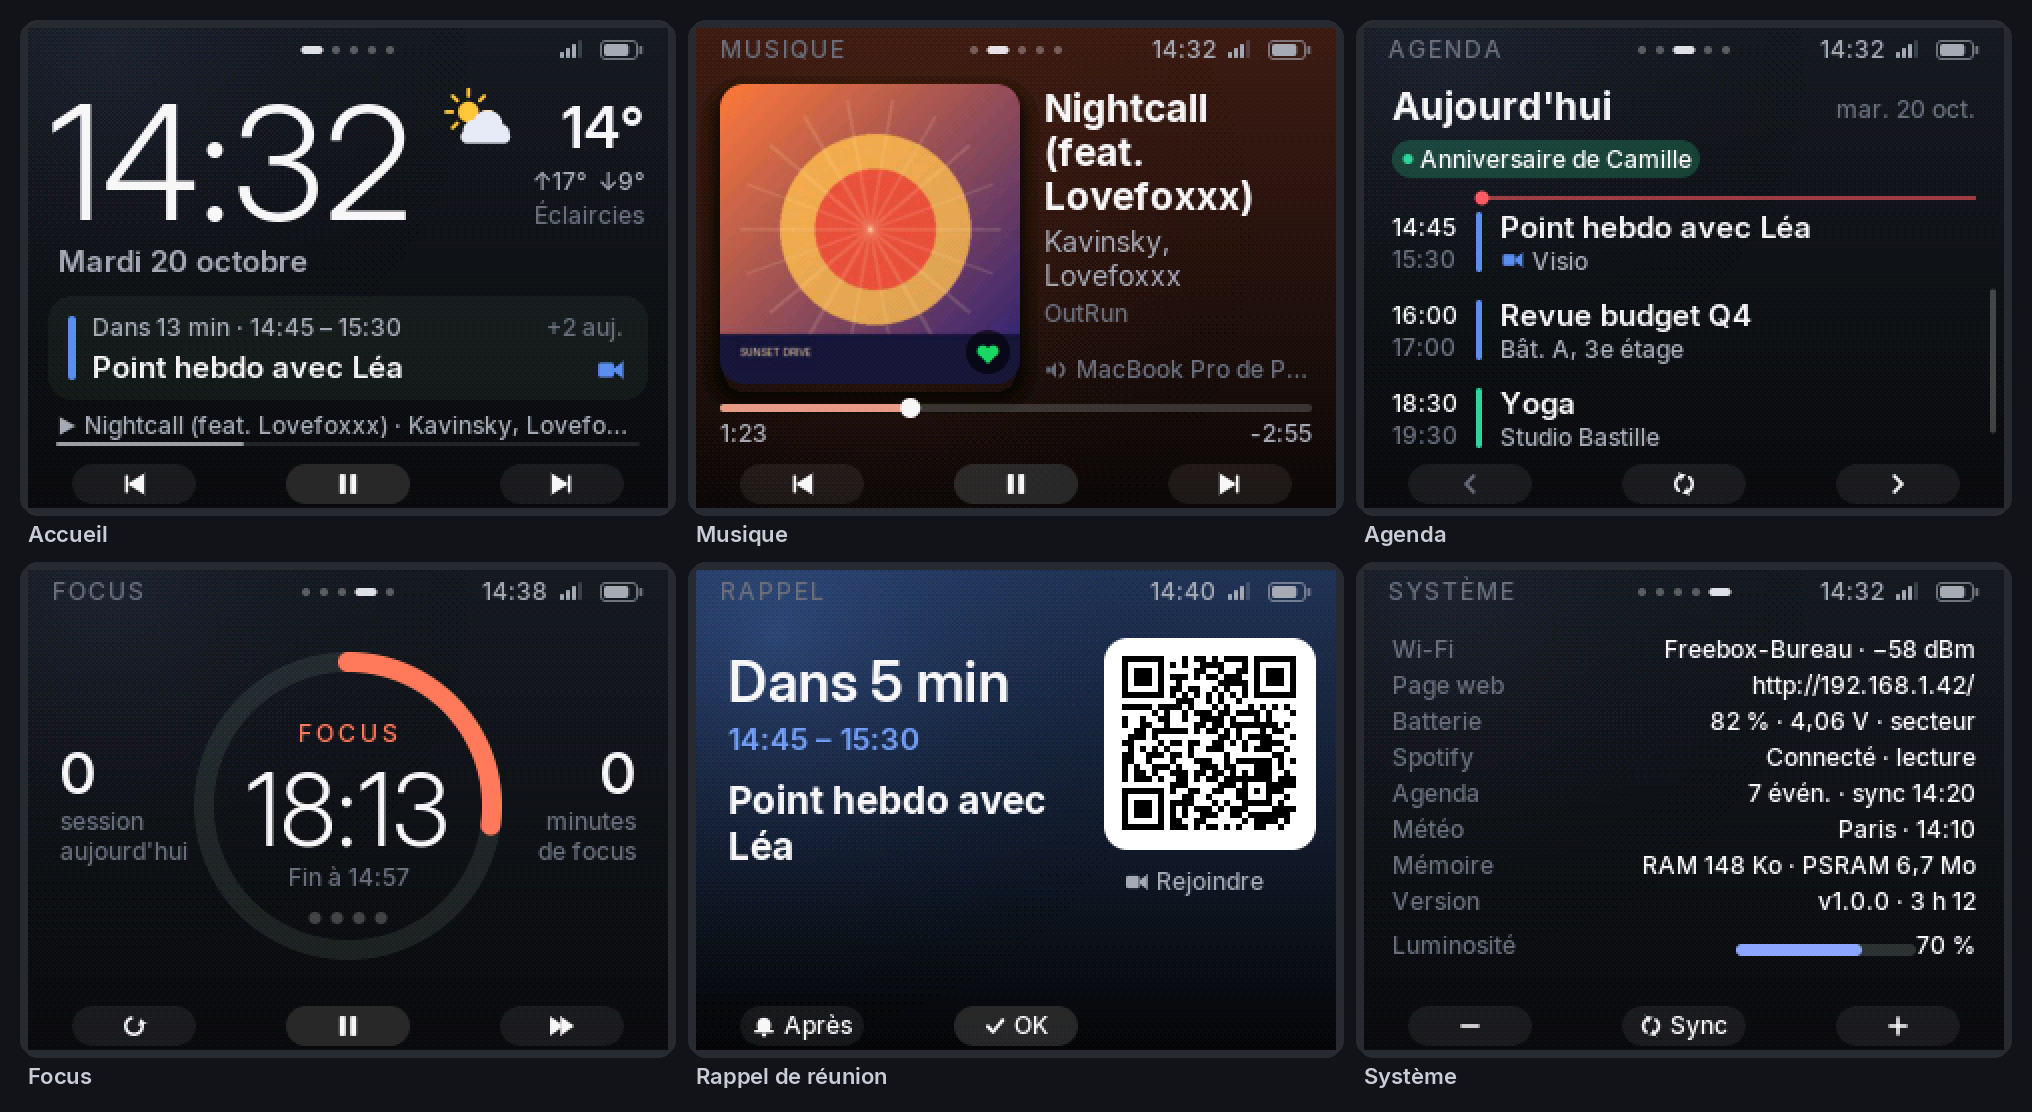
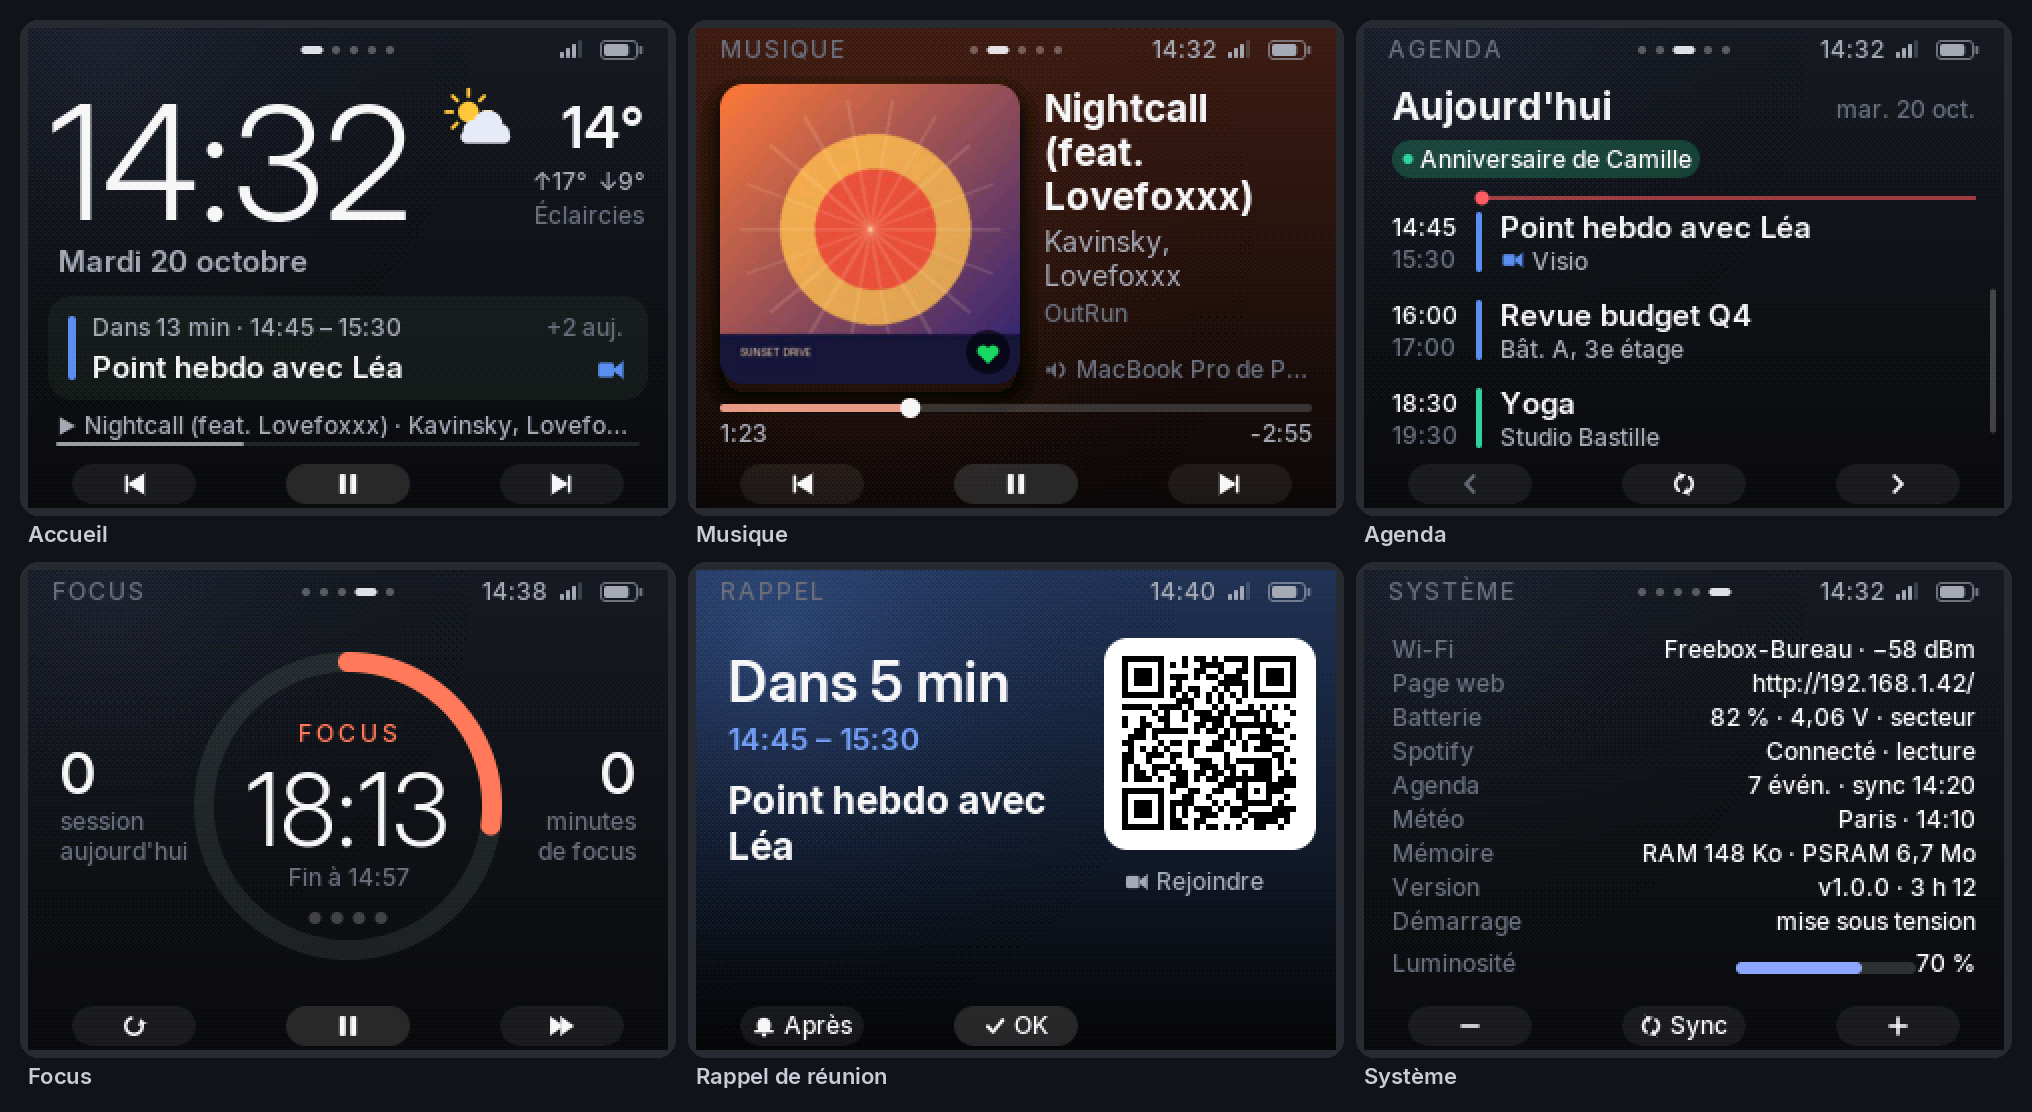
Fix boot loop caused by the core 0 task watchdog
The station rebooted ~10 s after every start with
"task_wdt: ... IDLE0 (CPU 0) ... CPU 0: feeds". The calendar/weather task
ran above the idle task's priority on core 0 while doing TLS handshakes
and while HTTPClient waits for data in Stream::timedRead(), which spins
on a non-blocking socket without yielding. The idle task never ran, and
this framework configures the task watchdog to panic after 5 s.

- feeds task runs at tskIDLE_PRIORITY so FreeRTOS time-slices it with
  IDLE0; Spotify and network tasks drop to priority 1
- task watchdog timeout raised to 30 s (still panics on real hangs)
- register the CA bundle once at boot: WiFiClientSecure::setCACertBundle
  frees and rebuilds a global array on every call, racing with
  handshakes in other tasks; clients now only enable verification
- wait 3 s after (re)connecting before the first sync
- show the cause of the last restart on the System page
- avoid the NVS "NOT_FOUND" error log when no Spotify token is stored
- preview Makefile tracks header dependencies

Claude-Session: https://claude.ai/code/session_01F9Fjkb6yxhckkwVjhZk3As

Changed region(s): [[0.8061, 0.5809, 0.9921, 0.8867], [0.6821, 0.6115, 0.7441, 0.8867]]

diff --git a/src/main.cpp b/src/main.cpp
@@ -5,6 +5,8 @@
 #include <M5Unified.h>
 #include <Preferences.h>
 #include <esp_heap_caps.h>
+#include <esp_system.h>
+#include <esp_task_wdt.h>
 #include <sys/time.h>
 
 #include <new>
@@ -13,8 +15,9 @@
 #include "services/net.h"
 #include "services/settings.h"
 #include "services/spotify.h"
-#include "services/store.h"
 #include "services/feeds.h"
+#include "services/store.h"
+#include "services/tls.h"
 #include "ui/chrome.h"
 #include "ui/fonts.h"
 #include "ui/format.h"
@@ -221,6 +224,27 @@ Frame makeFrame() {
   return f;
 }
 
+// Why the previous run ended, shown on the System page.
+const char* resetReasonText(esp_reset_reason_t r, bool* abnormal) {
+  *abnormal = true;
+  switch (r) {
+    case ESP_RST_PANIC: return "plantage";
+    case ESP_RST_INT_WDT:
+    case ESP_RST_TASK_WDT:
+    case ESP_RST_WDT: return "watchdog";
+    case ESP_RST_BROWNOUT: return "chute de tension";
+    default: break;
+  }
+  *abnormal = false;
+  switch (r) {
+    case ESP_RST_POWERON: return "mise sous tension";
+    case ESP_RST_SW: return "redémarrage";
+    case ESP_RST_EXT: return "bouton reset";
+    case ESP_RST_DEEPSLEEP: return "réveil";
+    default: return "autre";
+  }
+}
+
 void restoreClockFromRtc() {
   if (!M5.Rtc.isEnabled()) return;
   m5::rtc_datetime_t dt;
@@ -365,6 +389,10 @@ void handleInput(const Frame& f) {
 }  // namespace
 
 void setup() {
+  // TLS handshakes and HTTPClient's busy waits can keep core 0 busy for a few
+  // seconds; keep the watchdog for real hangs but don't let it fire on those.
+  esp_task_wdt_init(30, true);
+
   auto config = M5.config();
   config.serial_baudrate = 115200;
   config.internal_mic = false;
@@ -390,7 +418,11 @@ void setup() {
   {
     Store::Guard g(g_store);
     g_store.data().play.status = cfg::spotifyConfigured() ? SpotifyStatus::Connecting : SpotifyStatus::Disabled;
+    SystemState& sys = g_store.data().sys;
+    const esp_reset_reason_t reason = esp_reset_reason();
+    strlcpy(sys.resetReason, resetReasonText(reason, &sys.abnormalReset), sizeof(sys.resetReason));
     g_store.touch();
+    log_i("Reset reason: %d (%s)", static_cast<int>(reason), sys.resetReason);
   }
 
   g_shell.add(&g_home);
@@ -404,6 +436,7 @@ void setup() {
   g_system.setBrightnessPercent(g_brightnessPct);
   g_music.setArt(nullptr, 0);
 
+  tls::begin();  // before any task opens a TLS connection
   net::startTask();
   spotify::startTask();
   feeds::startTask();

diff --git a/src/services/feeds.cpp b/src/services/feeds.cpp
@@ -199,9 +199,8 @@ bool fetchIcs(Slot& slot, int64_t ws, int64_t we, char* err, size_t errLen) {
   url.trim();
   if (url.startsWith("webcal://")) url = "https://" + url.substring(9);
 
-  WiFiClientSecure secure;
+  tls::Client secure;
   WiFiClient plain;
-  tls::setup(secure);
   const bool https = url.startsWith("https://");
   HTTPClient http;
   http.useHTTP10(true);  // no chunked encoding: the body can be streamed as is
@@ -334,8 +333,7 @@ bool refreshWeather() {
            "&daily=temperature_2m_max,temperature_2m_min,precipitation_probability_max,sunrise,sunset"
            "&timezone=auto&forecast_days=2&timeformat=unixtime",
            cfg::kLatitude, cfg::kLongitude);
-  WiFiClientSecure client;
-  tls::setup(client);
+  tls::Client client;
   String body;
   const int code = tls::get(client, url, body);
   if (code != 200) {
@@ -379,10 +377,16 @@ void taskMain(void*) {
   uint32_t nextWeather = 0, nextCalendar = 0;
   int64_t lastDay = -1;
   const bool calendars = cfg::calendarsConfigured();
+  bool online = false;
   for (;;) {
     if (WiFi.status() != WL_CONNECTED || time(nullptr) < 1700000000) {
+      online = false;
       delay(1000);
       continue;
+    }
+    if (!online) {
+      online = true;
+      delay(3000);  // spread the TLS handshakes that follow a (re)connection
     }
     const bool force = g_store.refreshRequested;
     if (force) g_store.refreshRequested = false;
@@ -422,7 +426,10 @@ void startTask() {
     strlcpy(g_store.data().weather.place, cfg::kPlaceName, sizeof(g_store.data().weather.place));
   }
   if (!cfg::calendarsConfigured() && !cfg::kWeatherEnabled) return;
-  xTaskCreatePinnedToCore(taskMain, "feeds", 16384, nullptr, 1, nullptr, 0);
+  // Priority 0, like core 0's idle task: FreeRTOS time-slices between them, so
+  // long downloads, parsing and TLS handshakes can never starve the idle task
+  // (whose watchdog would otherwise reboot the station).
+  xTaskCreatePinnedToCore(taskMain, "feeds", 16384, nullptr, tskIDLE_PRIORITY, nullptr, 0);
 }
 
 }  // namespace feeds

diff --git a/src/services/spotify.cpp b/src/services/spotify.cpp
@@ -71,9 +71,9 @@ class Worker {
   void setStatus(SpotifyStatus s);
   uint32_t pollInterval();
 
-  WiFiClientSecure apiTls_;
-  WiFiClientSecure authTls_;
-  WiFiClientSecure imgTls_;
+  tls::Client apiTls_;
+  tls::Client authTls_;
+  tls::Client imgTls_;
   HTTPClient api_;
   Preferences prefs_;
   String access_;
@@ -468,11 +468,8 @@ void Worker::downloadArt(const String& url) {
 }
 
 void Worker::run() {
-  tls::setup(apiTls_);
-  tls::setup(authTls_);
-  tls::setup(imgTls_);
   prefs_.begin("spotify", false);
-  refresh_ = prefs_.getString("refresh", "");
+  refresh_ = prefs_.isKey("refresh") ? prefs_.getString("refresh", "") : String();
   refreshFromNvs_ = refresh_.length() > 0;
   if (!refresh_.length()) refresh_ = cfg::kSpotifyRefreshToken;
   setStatus(refresh_.length() ? SpotifyStatus::Connecting : SpotifyStatus::NeedsAuth);
@@ -540,7 +537,7 @@ void taskMain(void*) {
 
 void startTask() {
   if (!cfg::spotifyConfigured()) return;
-  xTaskCreatePinnedToCore(taskMain, "spotify", 16384, nullptr, 3, nullptr, 0);
+  xTaskCreatePinnedToCore(taskMain, "spotify", 16384, nullptr, 1, nullptr, 0);
 }
 
 void authorizeUrl(char* out, size_t n, const char* state) {

diff --git a/src/services/tls.h b/src/services/tls.h
@@ -7,9 +7,22 @@
 
 namespace tls {
 
-void setup(WiFiClientSecure& client);
+// Registers the root store. Call once, before any task opens a connection.
+void begin();
+
+// TLS client verified against the root store. The framework keeps a single,
+// global copy of the bundle and WiFiClientSecure::setCACertBundle() frees and
+// rebuilds it on every call, which races with handshakes running in other
+// tasks. Clients therefore only switch verification on.
+class Client : public WiFiClientSecure {
+ public:
+  Client() {
+    _use_ca_bundle = true;
+    setHandshakeTimeout(15);
+  }
+};
 
 // GET into a String. Returns the HTTP status (negative on transport error).
-int get(WiFiClientSecure& client, const String& url, String& body, uint16_t timeoutMs = 10000);
+int get(Client& client, const String& url, String& body, uint16_t timeoutMs = 10000);
 
 }  // namespace tls

diff --git a/src/ui/apps/system.cpp b/src/ui/apps/system.cpp
@@ -38,7 +38,7 @@ void SystemApp::render(draw::Canvas& c, const Frame& f) {
   const AppSnapshot& s = *f.s;
   char buf[96], t[8];
   int y = 44;
-  const int step = 18;
+  const int step = 17;
 
   if (s.sys.wifi) snprintf(buf, sizeof(buf), "%s \xC2\xB7 \xE2\x88\x92%d dBm", s.sys.ssid, -s.sys.rssi);
   else snprintf(buf, sizeof(buf), "Déconnecté");
@@ -96,6 +96,11 @@ void SystemApp::render(draw::Canvas& c, const Frame& f) {
   else snprintf(buf, sizeof(buf), "%s \xC2\xB7 %u h %02u", version_, up / 3600, (up / 60) % 60);
   row(c, y, "Version", buf);
   y += step;
+
+  if (s.sys.resetReason[0]) {
+    row(c, y, "Démarrage", s.sys.resetReason, s.sys.abnormalReset ? theme::kWarn : theme::kText);
+    y += step;
+  }
 
   // Brightness slider
   draw::text(c, Font::Small, "Luminosité", 14, y + 4, theme::kText3);

diff --git a/src/services/tls.cpp b/src/services/tls.cpp
@@ -1,15 +1,14 @@
 #include "tls.h"
 
 extern const uint8_t kCertBundle[] asm("_binary_data_cert_x509_crt_bundle_bin_start");
+// From the WiFiClientSecure library (esp_crt_bundle.c).
+extern "C" void arduino_esp_crt_bundle_set(const uint8_t* x509_bundle);
 
 namespace tls {
 
-void setup(WiFiClientSecure& client) {
-  client.setCACertBundle(kCertBundle);
-  client.setHandshakeTimeout(15);
-}
+void begin() { arduino_esp_crt_bundle_set(kCertBundle); }
 
-int get(WiFiClientSecure& client, const String& url, String& body, uint16_t timeoutMs) {
+int get(Client& client, const String& url, String& body, uint16_t timeoutMs) {
   HTTPClient http;
   http.setReuse(false);
   http.setTimeout(timeoutMs);

diff --git a/src/services/caldav_http.cpp b/src/services/caldav_http.cpp
@@ -34,9 +34,8 @@ class SinkStream : public Stream {
 
 int HttpsCalDavTransport::request(const char* method, const std::string& url, const char* depth,
                                   const std::string& body, Sink sink, void* ctx, std::string* location) {
-  WiFiClientSecure secure;
+  tls::Client secure;
   WiFiClient plain;
-  tls::setup(secure);
   const bool https = url.rfind("https://", 0) == 0;
   HTTPClient http;
   http.setReuse(false);  // "Connection: close": the server ends the body for us

diff --git a/src/services/net.cpp b/src/services/net.cpp
@@ -248,7 +248,7 @@ void taskMain(void*) {
 void startTask() {
   snprintf(g_state, sizeof(g_state), "%08lx%08lx", static_cast<unsigned long>(esp_random()),
            static_cast<unsigned long>(esp_random()));
-  xTaskCreatePinnedToCore(taskMain, "net", 8192, nullptr, 2, nullptr, 0);
+  xTaskCreatePinnedToCore(taskMain, "net", 8192, nullptr, 1, nullptr, 0);
 }
 
 }  // namespace net

diff --git a/tools/preview/preview.cpp b/tools/preview/preview.cpp
@@ -90,6 +90,7 @@ int main(int argc, char** argv) {
   snap.sys.freeHeap = 148 * 1024;
   snap.sys.freePsram = 6900 * 1024;
   snap.sys.uptimeS = 3 * 3600 + 12 * 60;
+  snprintf(snap.sys.resetReason, sizeof(snap.sys.resetReason), "mise sous tension");
 
   PlaybackState& p = snap.play;
   p.status = SpotifyStatus::Ok;

diff --git a/src/services/settings.h b/src/services/settings.h
@@ -9,7 +9,7 @@
 
 namespace cfg {
 
-constexpr const char* kVersion = "v1.0.0";
+constexpr const char* kVersion = "v1.0.1";
 
 constexpr int kNumCalendars = static_cast<int>(sizeof(kCalendars) / sizeof(kCalendars[0]));
 constexpr int kNumWifi = static_cast<int>(sizeof(kWifi) / sizeof(kWifi[0]));

diff --git a/src/model/state.h b/src/model/state.h
@@ -109,6 +109,8 @@ struct SystemState {
   uint32_t freePsram = 0;
   uint32_t uptimeS = 0;
   bool portalUp = false;
+  char resetReason[24] = {0};  // cause of the last restart
+  bool abnormalReset = false;
 };
 
 struct AppSnapshot {

diff --git a/README.md b/README.md
@@ -188,6 +188,21 @@ La CI GitHub (`.github/workflows/firmware.yml`) lance les tests et compile le fi
 
 Pour régénérer les polices : `tools/gen_fonts.sh` (nécessite Pillow et fontTools).
 
+## Dépannage
+
+- **Journal série** : `pio device monitor` (115200 bauds). Les plantages y sont décodés
+  automatiquement (filtre `esp32_exception_decoder`).
+- **Écran Système › Démarrage** : cause du dernier redémarrage. « watchdog », « plantage » ou
+  « chute de tension » s'affichent en orange.
+- **Redémarrage en boucle avec `task_wdt: … IDLE0`** (versions ≤ 1.0.0) : la synchronisation
+  météo/agenda monopolisait le cœur 0 pendant les connexions HTTPS, et le watchdog redémarrait
+  l'ESP32. C'est corrigé en 1.0.1 : tâches réseau à basse priorité, watchdog à 30 s, certificats
+  chargés une seule fois. Mettez à jour et reflashez.
+- **Agenda « iCloud : identifiants refusés »** : utilisez l'adresse e-mail principale du compte
+  Apple et un *mot de passe pour app*, pas votre mot de passe Apple.
+- **Musique « Autoriser Spotify »** : ouvrez la page web de la station (adresse dans l'écran
+  Système) et suivez les étapes.
+
 ## Limites connues
 
 - **Spotify.** Pas de navigation dans la bibliothèque, seulement le contrôle de la lecture en cours.
